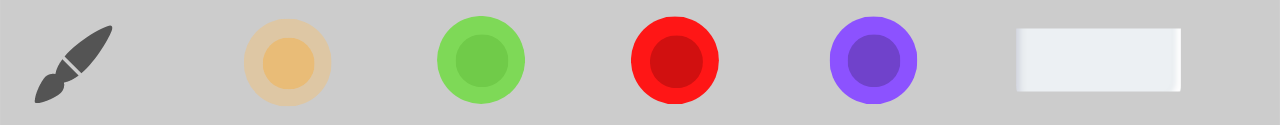
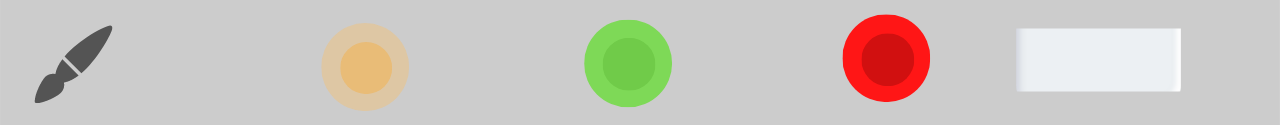
done with selection

Changed region(s): [[0.1875, 0.12, 0.5625, 0.888], [0.625, 0.12, 0.75, 0.84]]

diff --git a/hand_canvas/VirtualPainter.py b/hand_canvas/VirtualPainter.py
@@ -17,6 +17,8 @@ print(len(overlay_list))#Check if read correctly
 header = overlay_list[0]
 #########Open Files
 
+drawColor = (255,255,255)
+
 cap = cv2.VideoCapture(0)
 cap.set(3,1280) #Set feature id 3 (width) to value 1280
 cap.set(4,720) #Set height exactly to 720
@@ -47,13 +49,29 @@ while True:
         # (4rd step) If selection node -> Two fingers are up 
         if fingers[1] and fingers[2]:
             #cv2.rectangle(img,(x1,y1-15),(x2,y2+15),(105, 66, 245),cv2.FILLED) #Draw square
-            cv2.line(img,(x1,y1),(x2,y2),(105, 66, 245),3)
+            cv2.line(img,(x1,y1),(x2,y2),drawColor,3)
             print("Selection mode")            
-        
+            
+            #SELECT SOMETHIGN
+            #We need to check if we're at the top of the image so we can change the 
+            if y1 < 125: #If we're in the header
+                header = overlay_list[0]
+                if 250 < x1 < 450 : #It means it is clicking the first button
+                    header = overlay_list[1] #The header is the first image
+                    drawColor = (10,163,252)
+                elif 550 < x1 < 750 : #It means it is clicking the first button
+                    header = overlay_list[2] #The header is the second image
+                    drawColor = (126, 217, 87)
+                elif 800 < x1 < 950 : #It means it is clicking the first button
+                    header = overlay_list[3] #The header is the third image
+                    drawColor = (10, 10, 252)
+                elif 1050 < x1 < 1200 : #It means it is clicking the first button
+                    header = overlay_list[4] #The header is the fourth image
+                    drawColor = (0,0,0)
 
         # (5th step) Drawing mode, index finger is up
         if fingers[1] and fingers[2] == False:
-            cv2.circle(img,(x1,y1),10,(255, 255, 255),cv2.FILLED) #Draw dot
+            cv2.circle(img,(x1,y1),10,drawColor,cv2.FILLED,5) #Draw dot BGR
             print("Drawing Mode")
         
 
